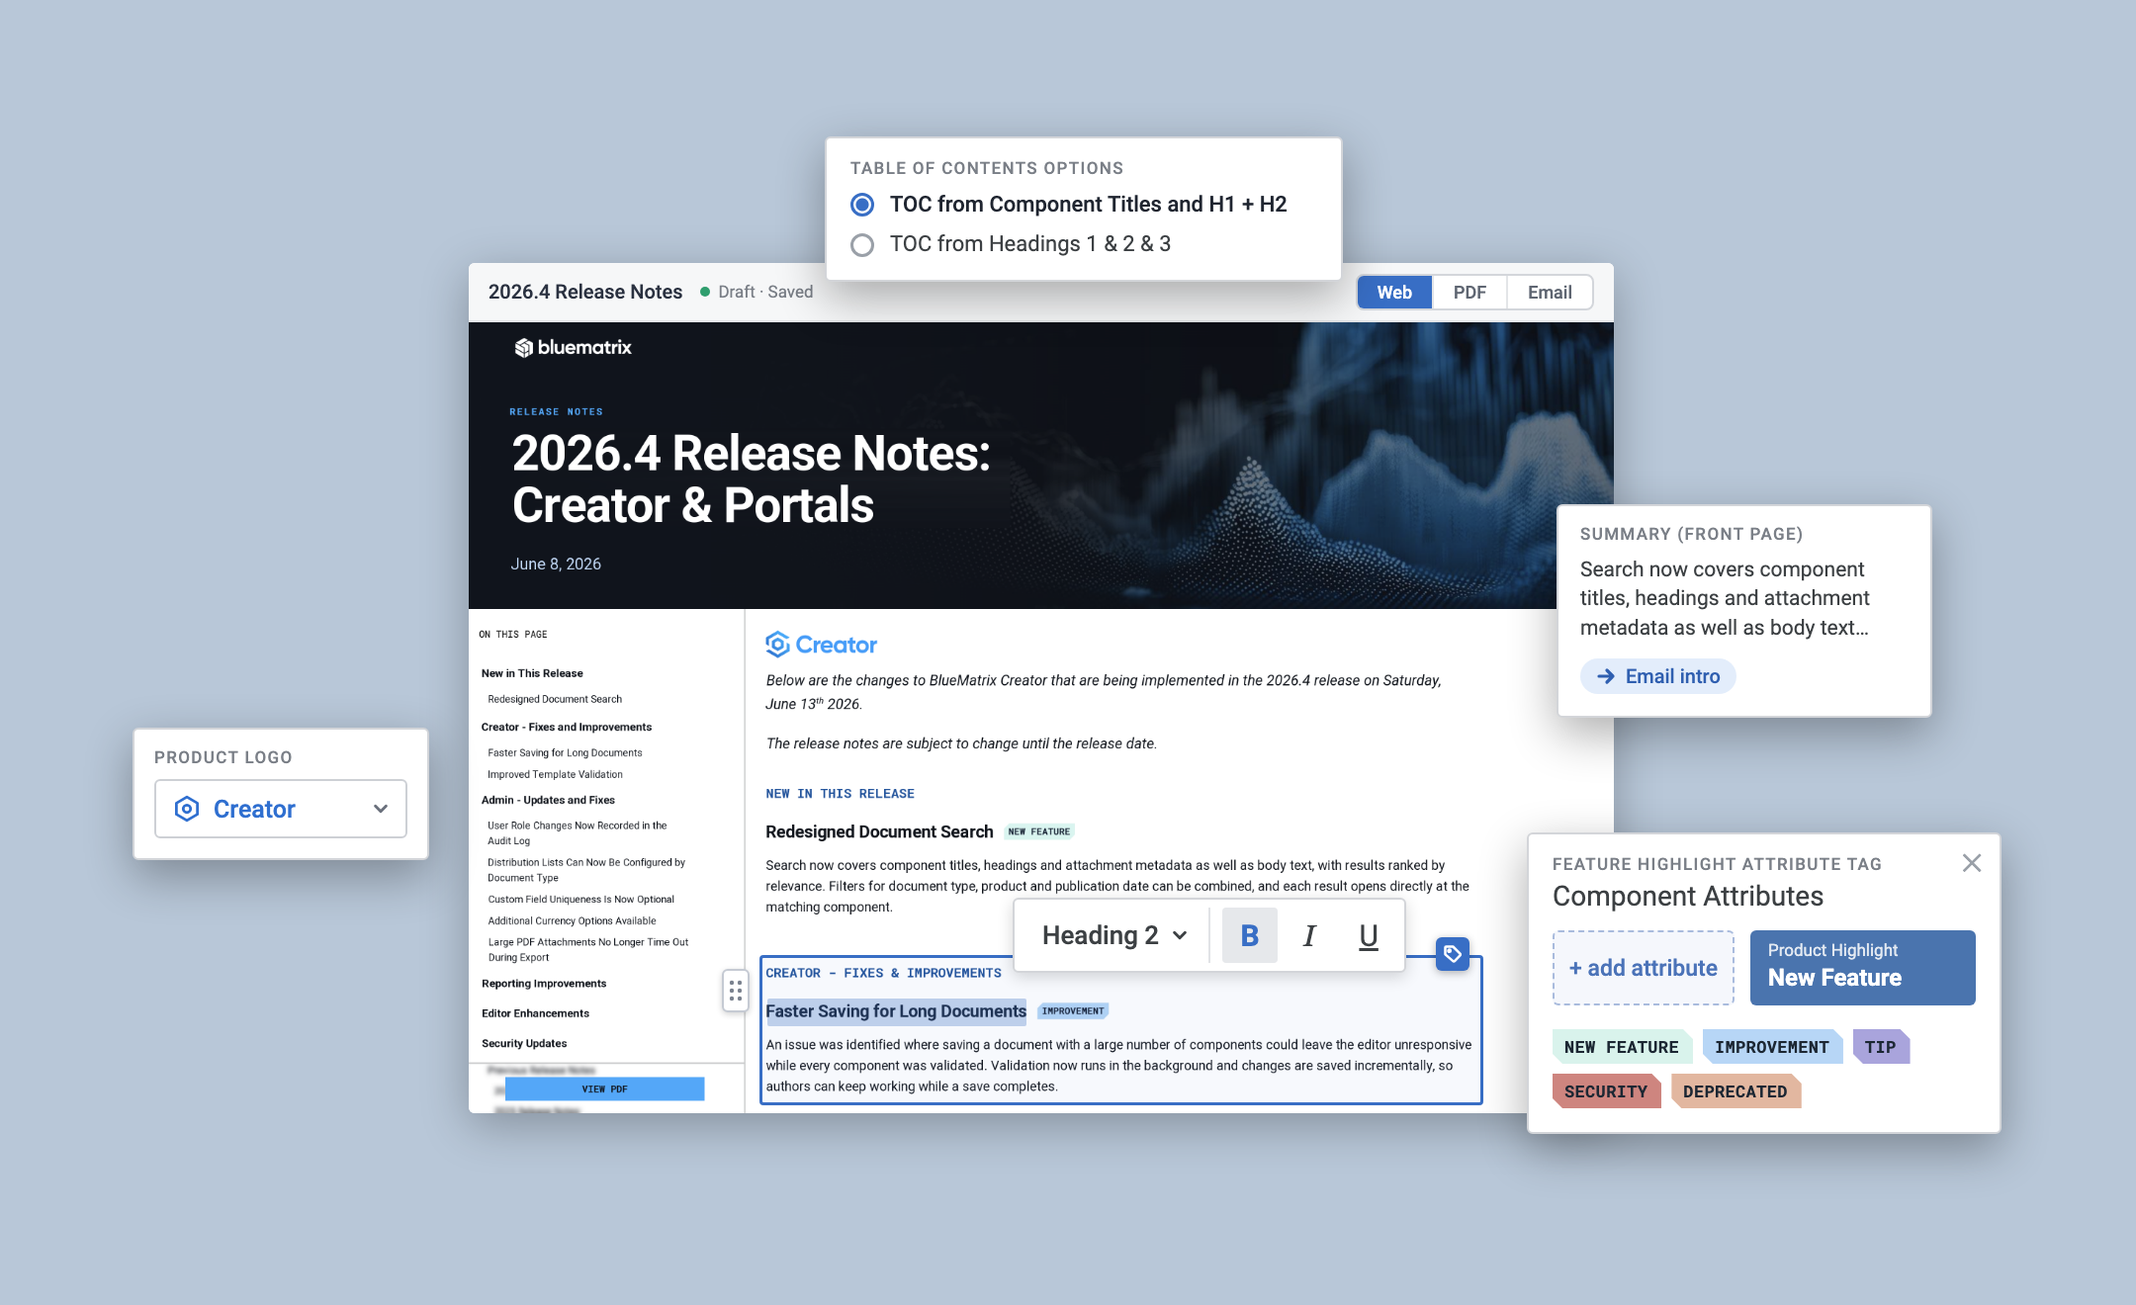
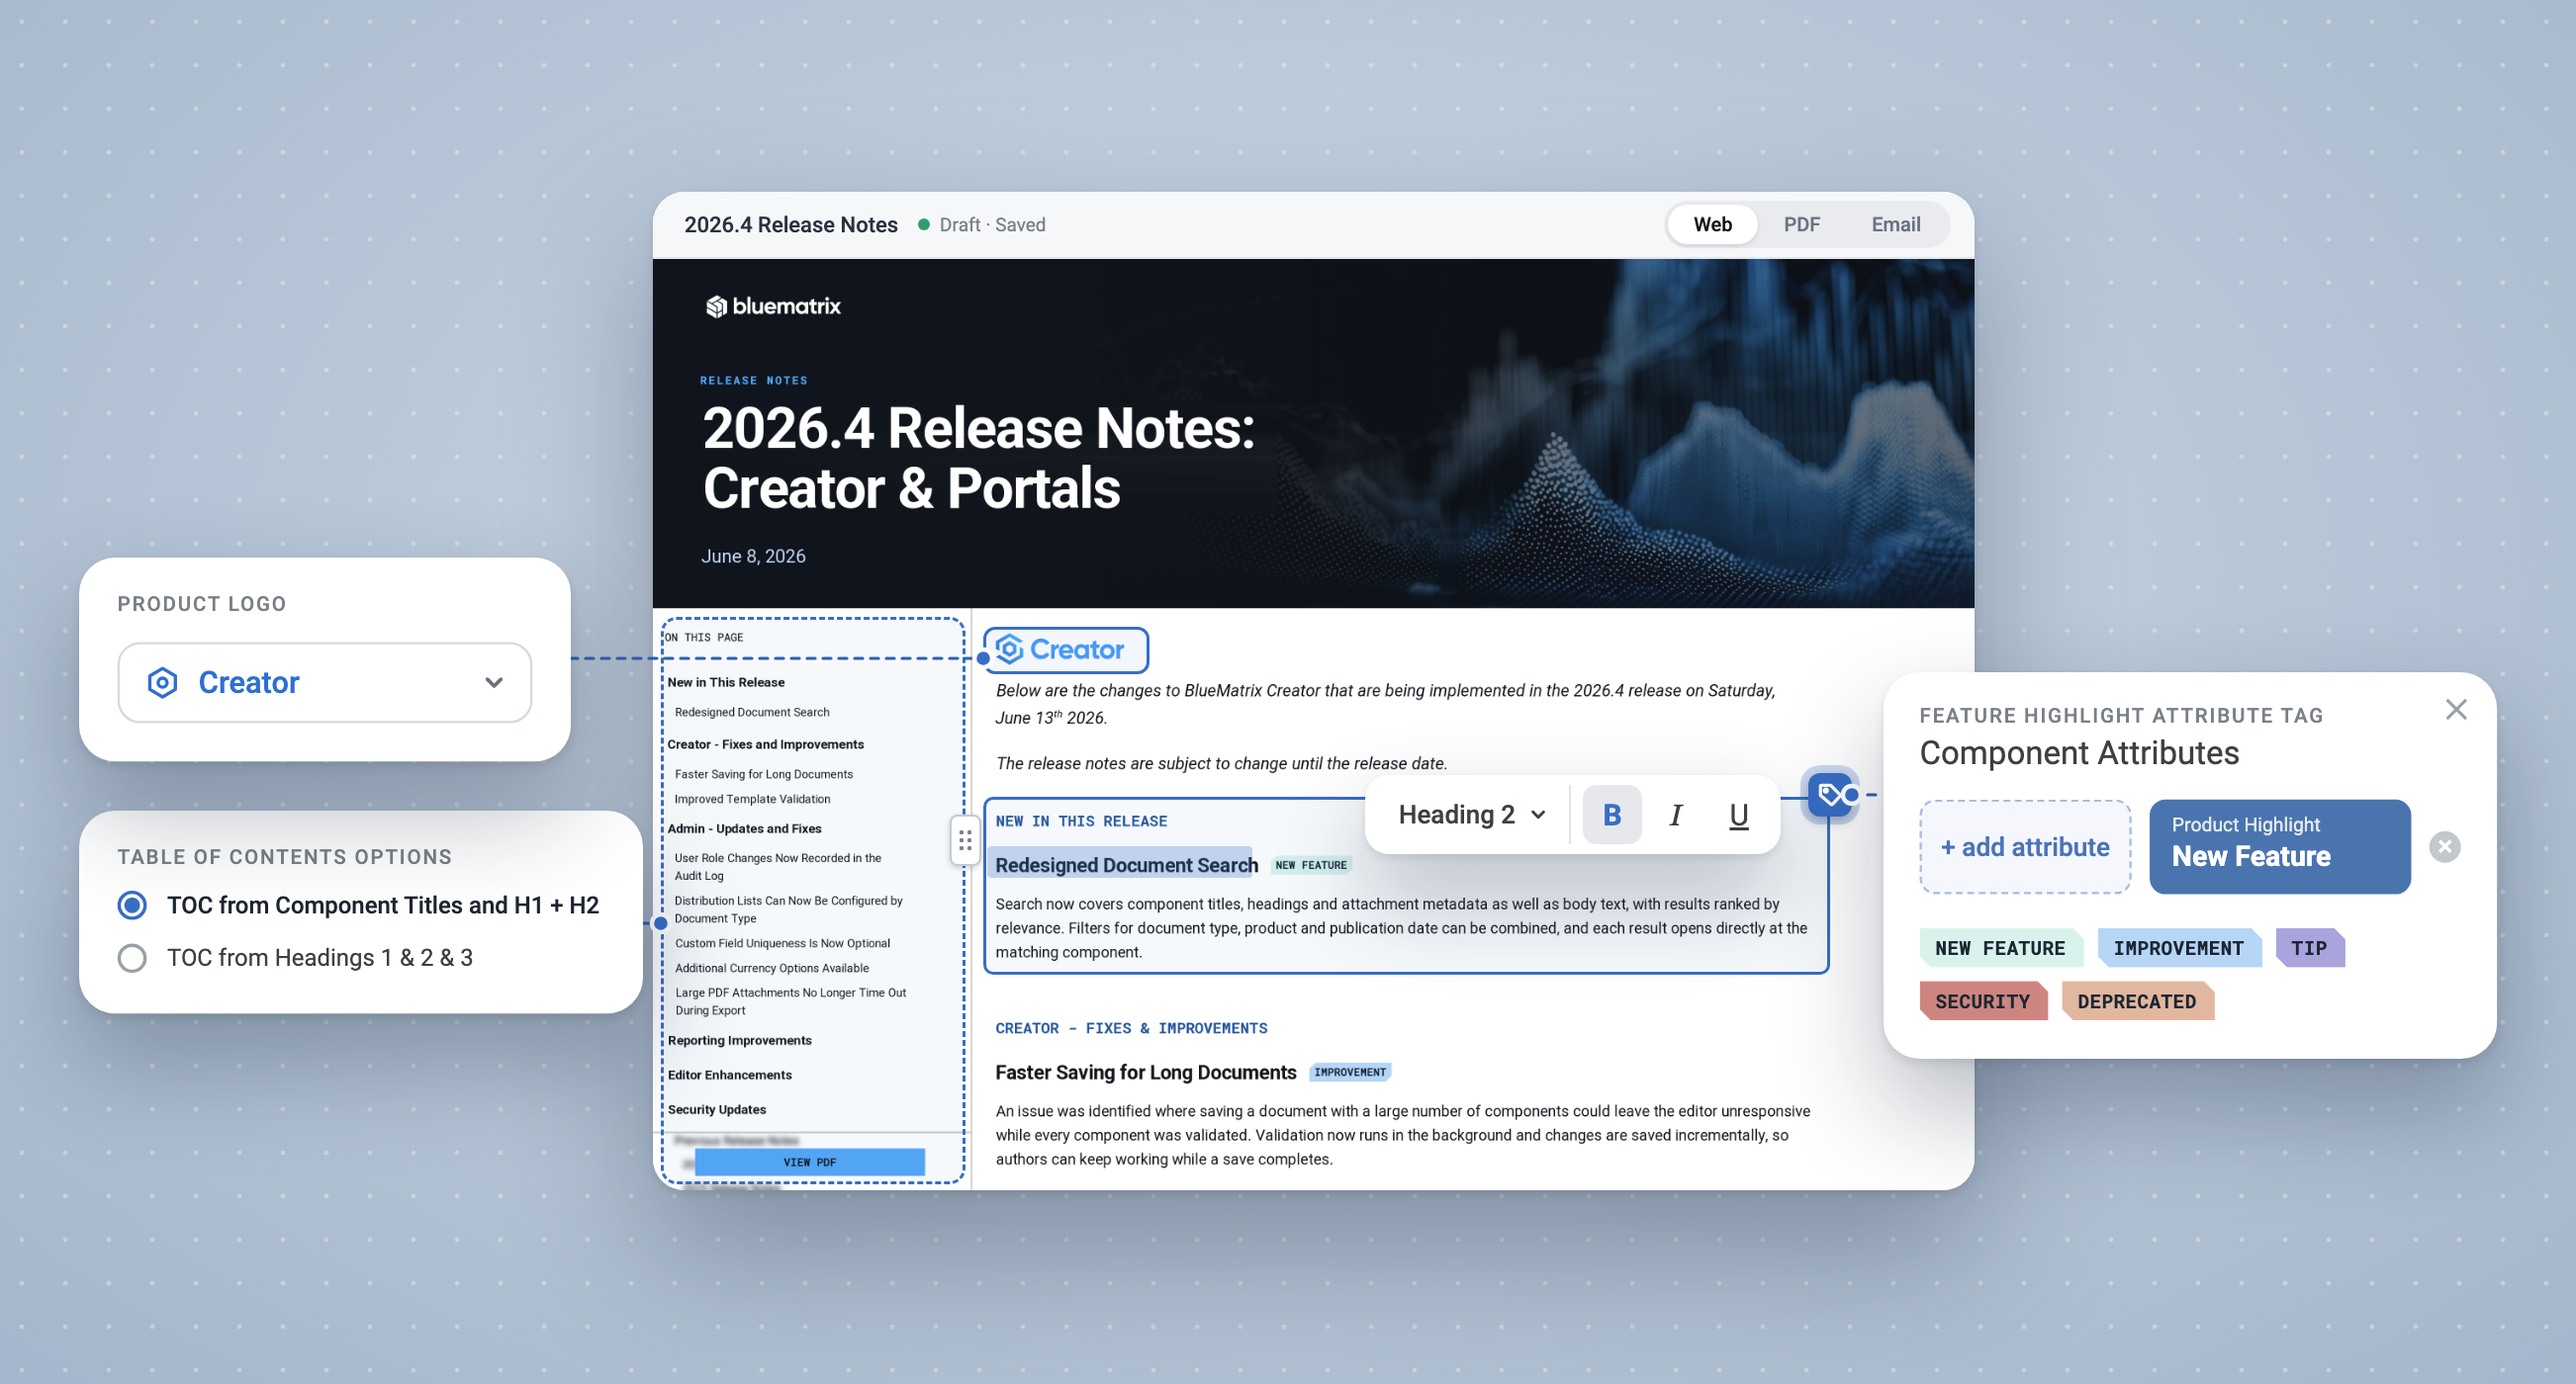
Redo the widgets figure and the password modal
- Project 4: replace the authoring-widgets image with a bolder hero. A
  release-notes editor sits at the center, with oversized controls around it
  (contents options, product logo, heading toolbar, feature highlight tags)
  and dashed connectors to the parts of the page they control
- Update the figure's alt text and caption to match
- Password modal: new rounded card with a lock icon, soft shadow and round
  close button; wrong passwords show in a padded message with a red input
  state that clears when typing resumes

diff --git a/src/style.css b/src/style.css
@@ -2129,48 +2129,123 @@ hr.hr-full {
 }
 
 
-/* --- Password modal (window style) ------------------------------------------ */
+/* --- Password modal ---------------------------------------------------------- */
 
 .retro .modal-window {
+    --danger: #B3261E;
+    position: relative;
     width: 100%;
-    max-width: 24rem;
-    border: 2px solid var(--ink);
+    max-width: 22.5rem;
+    padding: 2.25rem 2rem 2rem;
+    border-radius: 20px;
     background: var(--paper);
     color: var(--ink);
-    box-shadow: 8px 8px 0 var(--ink);
-    animation: window-open 0.18s cubic-bezier(0.2, 1.4, 0.4, 1);
+    box-shadow: 0 1px 2px rgba(0, 0, 0, 0.08), 0 24px 60px rgba(0, 0, 0, 0.28);
+    text-align: center;
+    animation: window-open 0.2s cubic-bezier(0.2, 0.9, 0.3, 1.1);
 }
 
-.retro .modal-window .window__bar {
-    justify-content: flex-end;
-    padding: 0.25rem 0.5rem;
+[data-theme="dark"] .retro .modal-window {
+    --danger: #F2A29B;
 }
 
-.retro .modal-window .window__bar button {
-    padding: 0 0.25rem;
-    color: inherit;
-    font: inherit;
-    font-size: 2.125rem;
-    line-height: 0.8;
+.retro .modal-window__close {
+    position: absolute;
+    top: 0.75rem;
+    right: 0.75rem;
+    display: grid;
+    place-items: center;
+    width: 2.25rem;
+    height: 2.25rem;
+    border: 0;
+    border-radius: 50%;
+    background: transparent;
+    color: var(--ink-soft);
+    cursor: pointer;
+    transition: background-color 0.15s ease, color 0.15s ease;
+}
+
+.retro .modal-window__close:hover,
+.retro .modal-window__close:focus-visible {
+    background: color-mix(in srgb, var(--ink) 8%, var(--paper));
+    color: var(--ink);
+}
+
+.retro .modal-window__icon {
+    display: grid;
+    place-items: center;
+    width: 3rem;
+    height: 3rem;
+    margin: 0 auto 1.25rem;
+    border-radius: 50%;
+    background: color-mix(in srgb, var(--link) 12%, var(--paper));
+    color: var(--link);
+}
+
+.retro .modal-window__title {
+    margin: 0 0 1.5rem;
+    font-family: var(--font-display);
+    font-weight: 700;
+    font-size: 1.25rem;
+    line-height: 1.3;
+    letter-spacing: -0.01em;
+}
+
+.retro .modal-window__form {
+    display: grid;
+    gap: 0.75rem;
+    text-align: left;
 }
 
 .retro .modal-window input {
     width: 100%;
-    padding: 0.625rem 0.75rem;
-    border: 2px solid var(--ink);
+    padding: 0.75rem 0.875rem;
+    border: 1px solid color-mix(in srgb, var(--ink) 25%, var(--paper));
+    border-radius: 10px;
     background: var(--paper);
     color: var(--ink);
     font: inherit;
+    font-size: 1rem;
+    transition: border-color 0.15s ease, box-shadow 0.15s ease;
+}
+
+.retro .modal-window input:focus {
+    outline: none;
+    border-color: var(--link);
+    box-shadow: 0 0 0 3px color-mix(in srgb, var(--link) 22%, transparent);
+}
+
+.retro .modal-window input[aria-invalid="true"] {
+    border-color: var(--danger);
+    box-shadow: 0 0 0 3px color-mix(in srgb, var(--danger) 18%, transparent);
+}
+
+/* The message appears in its own padded pill; nothing shows (and no space is taken) until
+   there is an error, so the layout only grows by the height of the message */
+.retro .modal-window__error {
+    margin: 0;
+    padding: 0.625rem 0.875rem;
+    border-radius: 8px;
+    background: color-mix(in srgb, var(--danger) 10%, var(--paper));
+    color: var(--danger);
+    font-size: 0.9375rem;
+    line-height: 1.4;
+}
+
+.retro .modal-window__error:empty {
+    display: none;
 }
 
 .retro .modal-window .btn {
     justify-self: stretch;
     justify-content: center;
+    margin-top: 0.25rem;
+    border-radius: 10px;
     cursor: pointer;
 }
 
 @keyframes window-open {
-    from { transform: scale(0.94); opacity: 0; }
+    from { transform: translateY(8px) scale(0.97); opacity: 0; }
 }
 
 

diff --git a/index.html b/index.html
@@ -172,18 +172,19 @@
     <div id="passwordModal" class="fixed inset-0 z-50 hidden">
       <div class="absolute inset-0 bg-black/40 pointer-events-none"></div>
       <div class="relative z-10 flex items-center justify-center min-h-screen px-6">
-        <div class="modal-window" role="dialog" aria-modal="true" aria-label="Password required">
-          <div class="window__bar">
-            <button id="closeModal" aria-label="Close">×</button>
+        <div class="modal-window" role="dialog" aria-modal="true" aria-labelledby="passwordTitle">
+          <button id="closeModal" class="modal-window__close" aria-label="Close">
+            <svg viewBox="0 0 20 20" width="20" height="20" fill="none" stroke="currentColor" stroke-width="2" stroke-linecap="round" aria-hidden="true"><path d="M5 5l10 10M15 5L5 15"/></svg>
+          </button>
+          <div class="modal-window__icon" aria-hidden="true">
+            <svg viewBox="0 0 24 24" width="22" height="22" fill="none" stroke="currentColor" stroke-width="1.8" stroke-linecap="round" stroke-linejoin="round"><rect x="4.5" y="10.5" width="15" height="10" rx="2.5"/><path d="M8 10.5V8a4 4 0 0 1 8 0v2.5"/></svg>
           </div>
-          <div class="p-6">
-            <p class="mb-4">This page is password protected.</p>
-            <form id="passwordForm" class="grid gap-3">
-              <input type="password" id="passwordInput" placeholder="Enter password" autocomplete="off" aria-label="Password" />
-              <button type="submit" class="btn">Unlock project</button>
-            </form>
-            <p id="errorMessage" class="pixel mt-3 mb-0 text-red-600" aria-live="polite"></p>
-          </div>
+          <h2 class="modal-window__title" id="passwordTitle">This page is password protected.</h2>
+          <form id="passwordForm" class="modal-window__form" novalidate>
+            <input type="password" id="passwordInput" placeholder="Enter password" autocomplete="off" aria-label="Password" aria-describedby="errorMessage" />
+            <p id="errorMessage" class="modal-window__error" role="alert"></p>
+            <button type="submit" class="btn">Unlock project</button>
+          </form>
         </div>
       </div>
     </div>

diff --git a/project-4.html b/project-4.html
@@ -173,9 +173,9 @@
             </p>
             <figure class="figure-widgets">
                 <img src="assets/images/release-notes-widgets.png"
-                    alt="Authoring options for a release note: table of contents source, product logo, feature highlight tags, release calendar attachment and the summary that feeds the email intro" />
-                <figcaption>The authoring options behind each note: table of contents source, product logo, feature
-                    highlight tags and attachments. UI shown is illustrative.</figcaption>
+                    alt="A release notes page in an editor, surrounded by the controls used to author it: table of contents options, product logo, heading toolbar and feature highlight tags" />
+                <figcaption>The controls behind a release note: table of contents options, product logo, formatting and
+                    feature highlight tags. UI shown is illustrative.</figcaption>
             </figure>
 
             <!-- <figure>

diff --git a/src/main.js b/src/main.js
@@ -175,6 +175,7 @@ if (openWorkBtn) {
         passwordModal.classList.remove('hidden');
         passwordInput.value = '';
         errorMessage.textContent = '';
+        passwordInput.removeAttribute('aria-invalid');
         setTimeout(() => passwordInput.focus(), 100);
     }
 
@@ -201,9 +202,16 @@ if (openWorkBtn) {
             window.location.href = 'work.html';
         } else {
             errorMessage.textContent = 'Incorrect password. Please try again.';
+            passwordInput.setAttribute('aria-invalid', 'true');
             passwordInput.value = '';
             passwordInput.focus();
         }
+    });
+
+    // Clear the error state as soon as they start typing again
+    passwordInput.addEventListener('input', () => {
+        passwordInput.removeAttribute('aria-invalid');
+        errorMessage.textContent = '';
     });
 }
 
